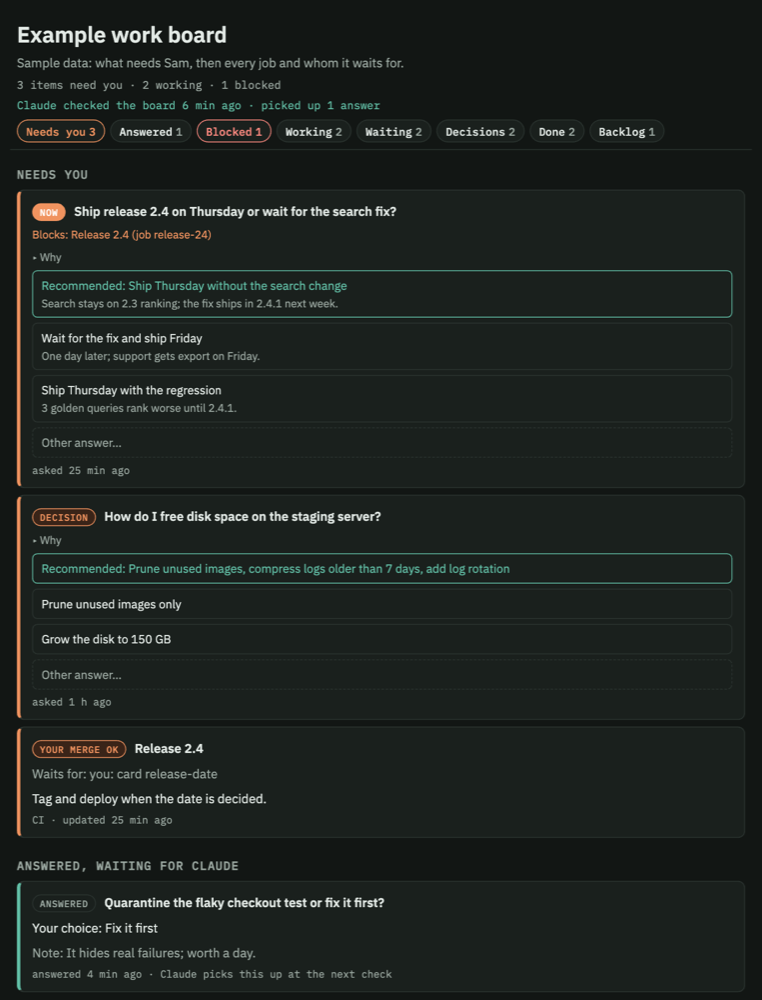
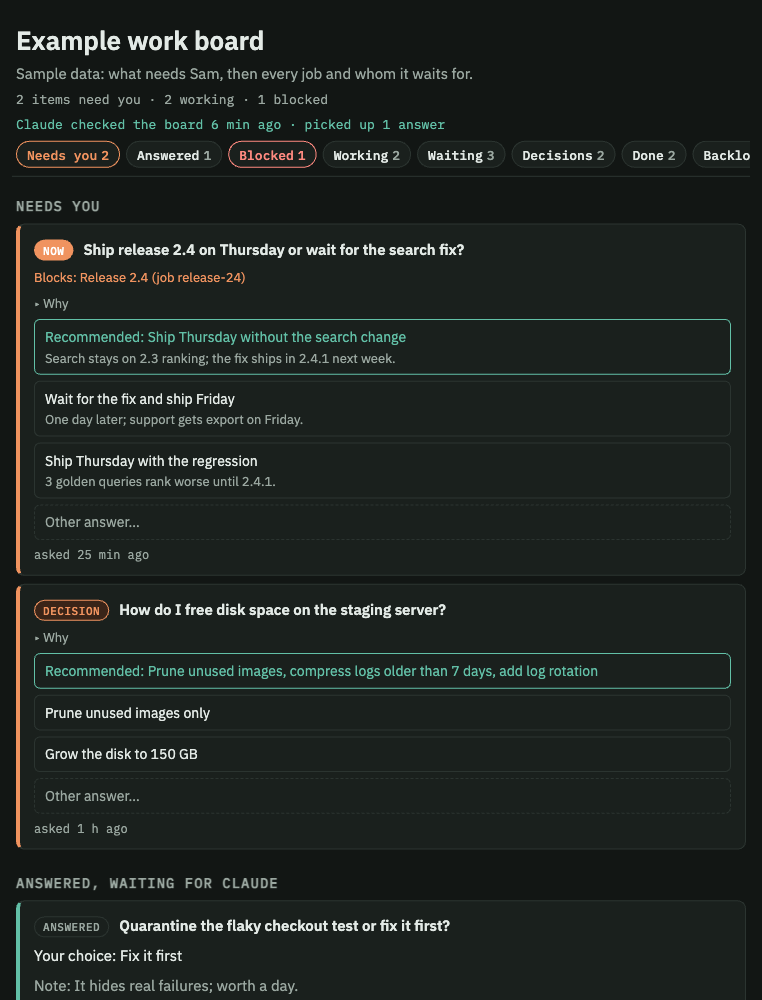
Docs: Needs you holds only answerable cards
The schema stage table and the README now say that needs-* jobs show
under Waiting with a link to their card, and that "Needs you" lists only
open cards. The README screenshots are taken again from the fixed page;
the old ones showed a job under "Needs you".

diff --git a/references/schema.md b/references/schema.md
@@ -46,7 +46,7 @@ Stages and the group the page shows them in:
 
 | stage | group |
 |---|---|
-| needs-answer, needs-review, needs-merge | Needs you |
+| needs-answer, needs-review, needs-merge | Waiting for others, with an "Answer on the card" link to the open card named in `waitingOn` ("you: card <id>"); a "No card to answer" chip when no open card matches |
 | blocked, failed | Blocked |
 | working, ci | Working |
 | review | Waiting for others (shown as "In review") |
@@ -54,6 +54,10 @@ Stages and the group the page shows them in:
 | queued, waiting-others | Waiting for others |
 | backlog | Backlog (collapsed) |
 | done | Recently done (collapsed) |
+
+"Needs you" lists only open `needs` cards, because only a card can take an
+answer. A job never appears there; use a `needs-*` stage only together with an
+open card.
 
 ## `meta/claude` — heartbeat
 

diff --git a/README.md b/README.md
@@ -17,7 +17,8 @@ answer); Claude picks the answer up and acts on it.
 
 ## What the page shows
 
-- **Needs you** — decision cards, urgent first, recommended option marked.
+- **Needs you** — only decision cards you can answer, urgent first, recommended
+  option marked. A job that waits on you links to its card instead.
 - **Answered, waiting for Claude** — your clicks Claude has not acted on yet.
 - **Blocked / Working / Waiting for others** — every job and who it waits for.
 - **Recent decisions, Recently done, Backlog** — collapsed by default.
